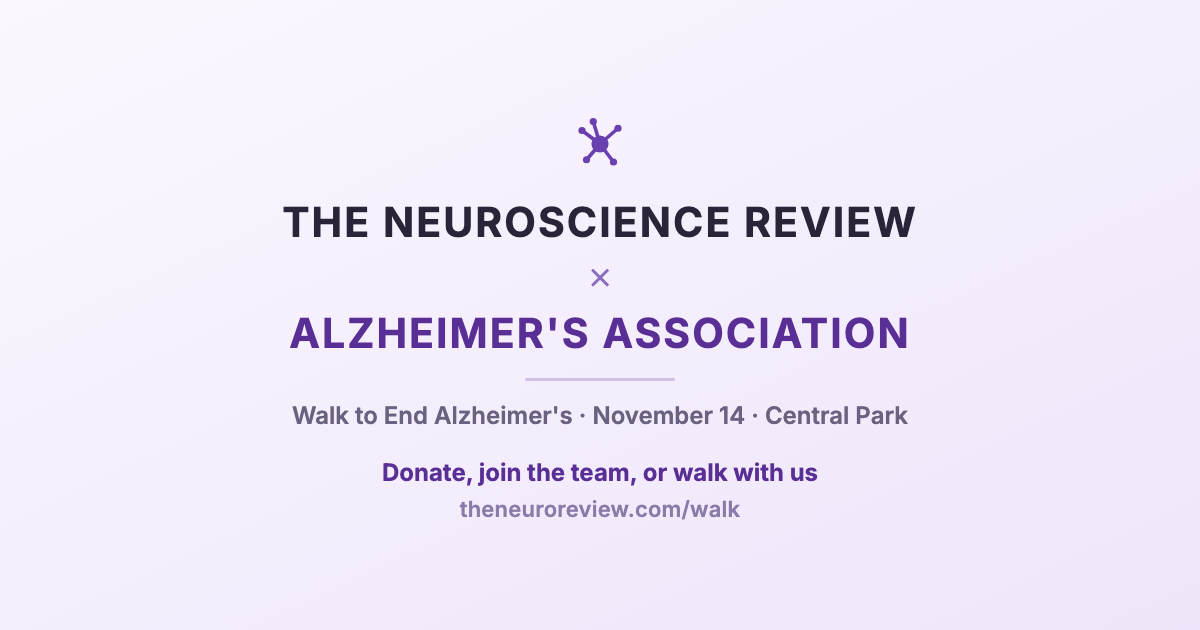
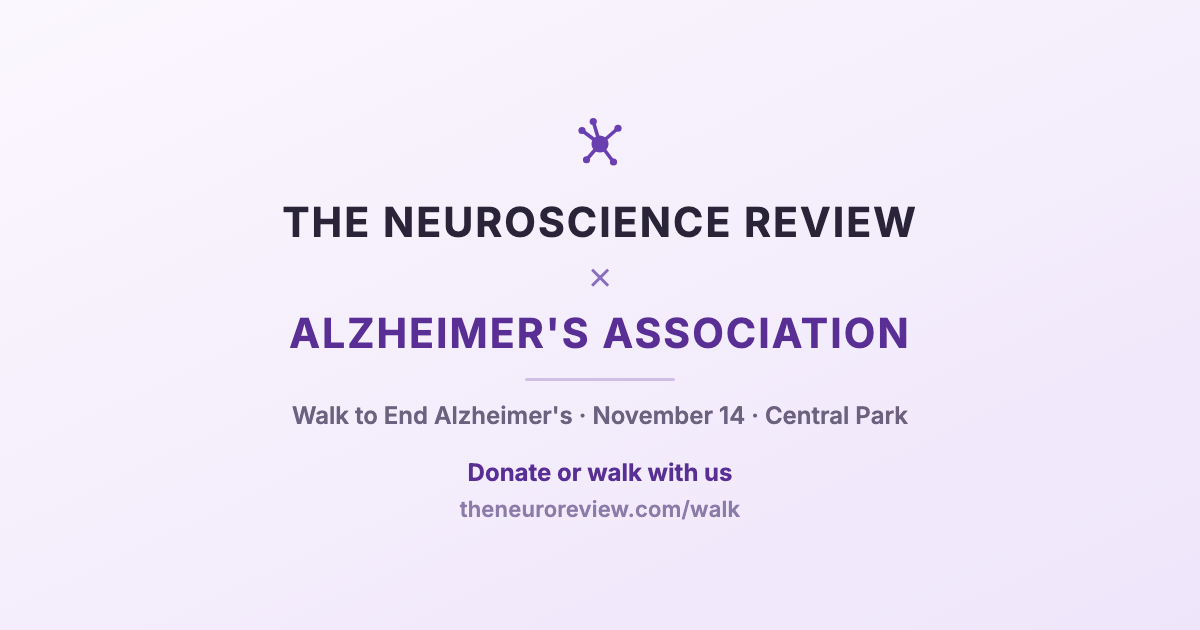
Campaign CTA: 'Donate or walk with us' across band, /walk buttons, share card
Claude-Session: https://claude.ai/code/session_01BU48gdFKFgBNFofX3mXRxv

Changed region(s): [[0.3083, 0.7238, 0.6783, 0.7841]]

diff --git a/walk.html b/walk.html
@@ -21,13 +21,13 @@
   <meta property="og:title" content="The Neuroscience Review is walking to end Alzheimer's">
   <meta property="og:description" content="Join Team Neuroscience Review at the Walk to End Alzheimer's on November 14 in Central Park, or donate. Every dollar goes straight to the Alzheimer's Association.">
   <meta property="og:url" content="https://theneuroreview.com/walk.html">
-  <meta property="og:image" content="https://theneuroreview.com/walk-og.png?v=3">
+  <meta property="og:image" content="https://theneuroreview.com/walk-og.png?v=4">
   <meta property="og:image:width" content="1200">
   <meta property="og:image:height" content="630">
   <meta name="twitter:card" content="summary_large_image">
   <meta name="twitter:title" content="The Neuroscience Review is walking to end Alzheimer's">
   <meta name="twitter:description" content="Join Team Neuroscience Review at the Walk to End Alzheimer's on November 14 in Central Park, or donate. Every dollar goes straight to the Alzheimer's Association.">
-  <meta name="twitter:image" content="https://theneuroreview.com/walk-og.png?v=3">
+  <meta name="twitter:image" content="https://theneuroreview.com/walk-og.png?v=4">
   <style>
     .walk-hero{
       background:radial-gradient(130% 150% at 15% 12%, #6b5590 0%, #473762 52%, #2a2142 100%);
@@ -89,7 +89,7 @@
         <p class="walk-hero__lead">We're raising $10,000 for the Alzheimer's Association. Walk with us or chip in whatever you can. Every dollar goes straight to the fight.</p>
         <div class="walk-cta">
           <a class="walk-btn walk-btn--donate" href="https://act.alz.org/goto/TeamNeuroscienceReview" target="_blank" rel="noopener">Donate</a>
-          <a class="walk-btn walk-btn--join" href="https://act.alz.org/goto/TeamNeuroscienceReview" target="_blank" rel="noopener">Join our team</a>
+          <a class="walk-btn walk-btn--join" href="https://act.alz.org/goto/TeamNeuroscienceReview" target="_blank" rel="noopener">Walk with us</a>
         </div>
       </div>
     </section>
@@ -113,7 +113,7 @@
 
       <div class="walk-cta walk-cta--foot">
         <a class="walk-btn walk-btn--donate" href="https://act.alz.org/goto/TeamNeuroscienceReview" target="_blank" rel="noopener">Donate</a>
-        <a class="walk-btn walk-btn--join" href="https://act.alz.org/goto/TeamNeuroscienceReview" target="_blank" rel="noopener">Join our team</a>
+        <a class="walk-btn walk-btn--join" href="https://act.alz.org/goto/TeamNeuroscienceReview" target="_blank" rel="noopener">Walk with us</a>
       </div>
     </div>
   </main>

diff --git a/news.html b/news.html
@@ -92,7 +92,7 @@
           <div class="alz-band__title">We're walking to end Alzheimer's</div>
           <p class="alz-band__text">We cover this disease closely, and this fall we're helping fund the fight. On November 14 we walk in Central Park, aiming to raise 10,000 dollars for the Alzheimer's Association. Every dollar goes straight to them.</p>
         </div>
-        <span class="alz-band__btn">Donate or join the team</span>
+        <span class="alz-band__btn">Donate or walk with us</span>
       </a>
 
       <div class="news-filter" id="news-filter" role="group" aria-label="Filter news by topic"></div>

diff --git a/index.html b/index.html
@@ -217,7 +217,7 @@
             <div class="alz-band__title">We're walking to end Alzheimer's</div>
             <p class="alz-band__text">We cover this disease closely, and this fall we're helping fund the fight. On November 14 we walk in Central Park, aiming to raise 10,000 dollars for the Alzheimer's Association. Every dollar goes straight to them.</p>
           </div>
-          <span class="alz-band__btn">Donate or join the team</span>
+          <span class="alz-band__btn">Donate or walk with us</span>
         </a>
       </section>
 

diff --git a/posts.html b/posts.html
@@ -69,7 +69,7 @@
           <div class="alz-band__title">We're walking to end Alzheimer's</div>
           <p class="alz-band__text">We cover this disease closely, and this fall we're helping fund the fight. On November 14 we walk in Central Park, aiming to raise 10,000 dollars for the Alzheimer's Association. Every dollar goes straight to them.</p>
         </div>
-        <span class="alz-band__btn">Donate or join the team</span>
+        <span class="alz-band__btn">Donate or walk with us</span>
       </a>
     </section>
 
